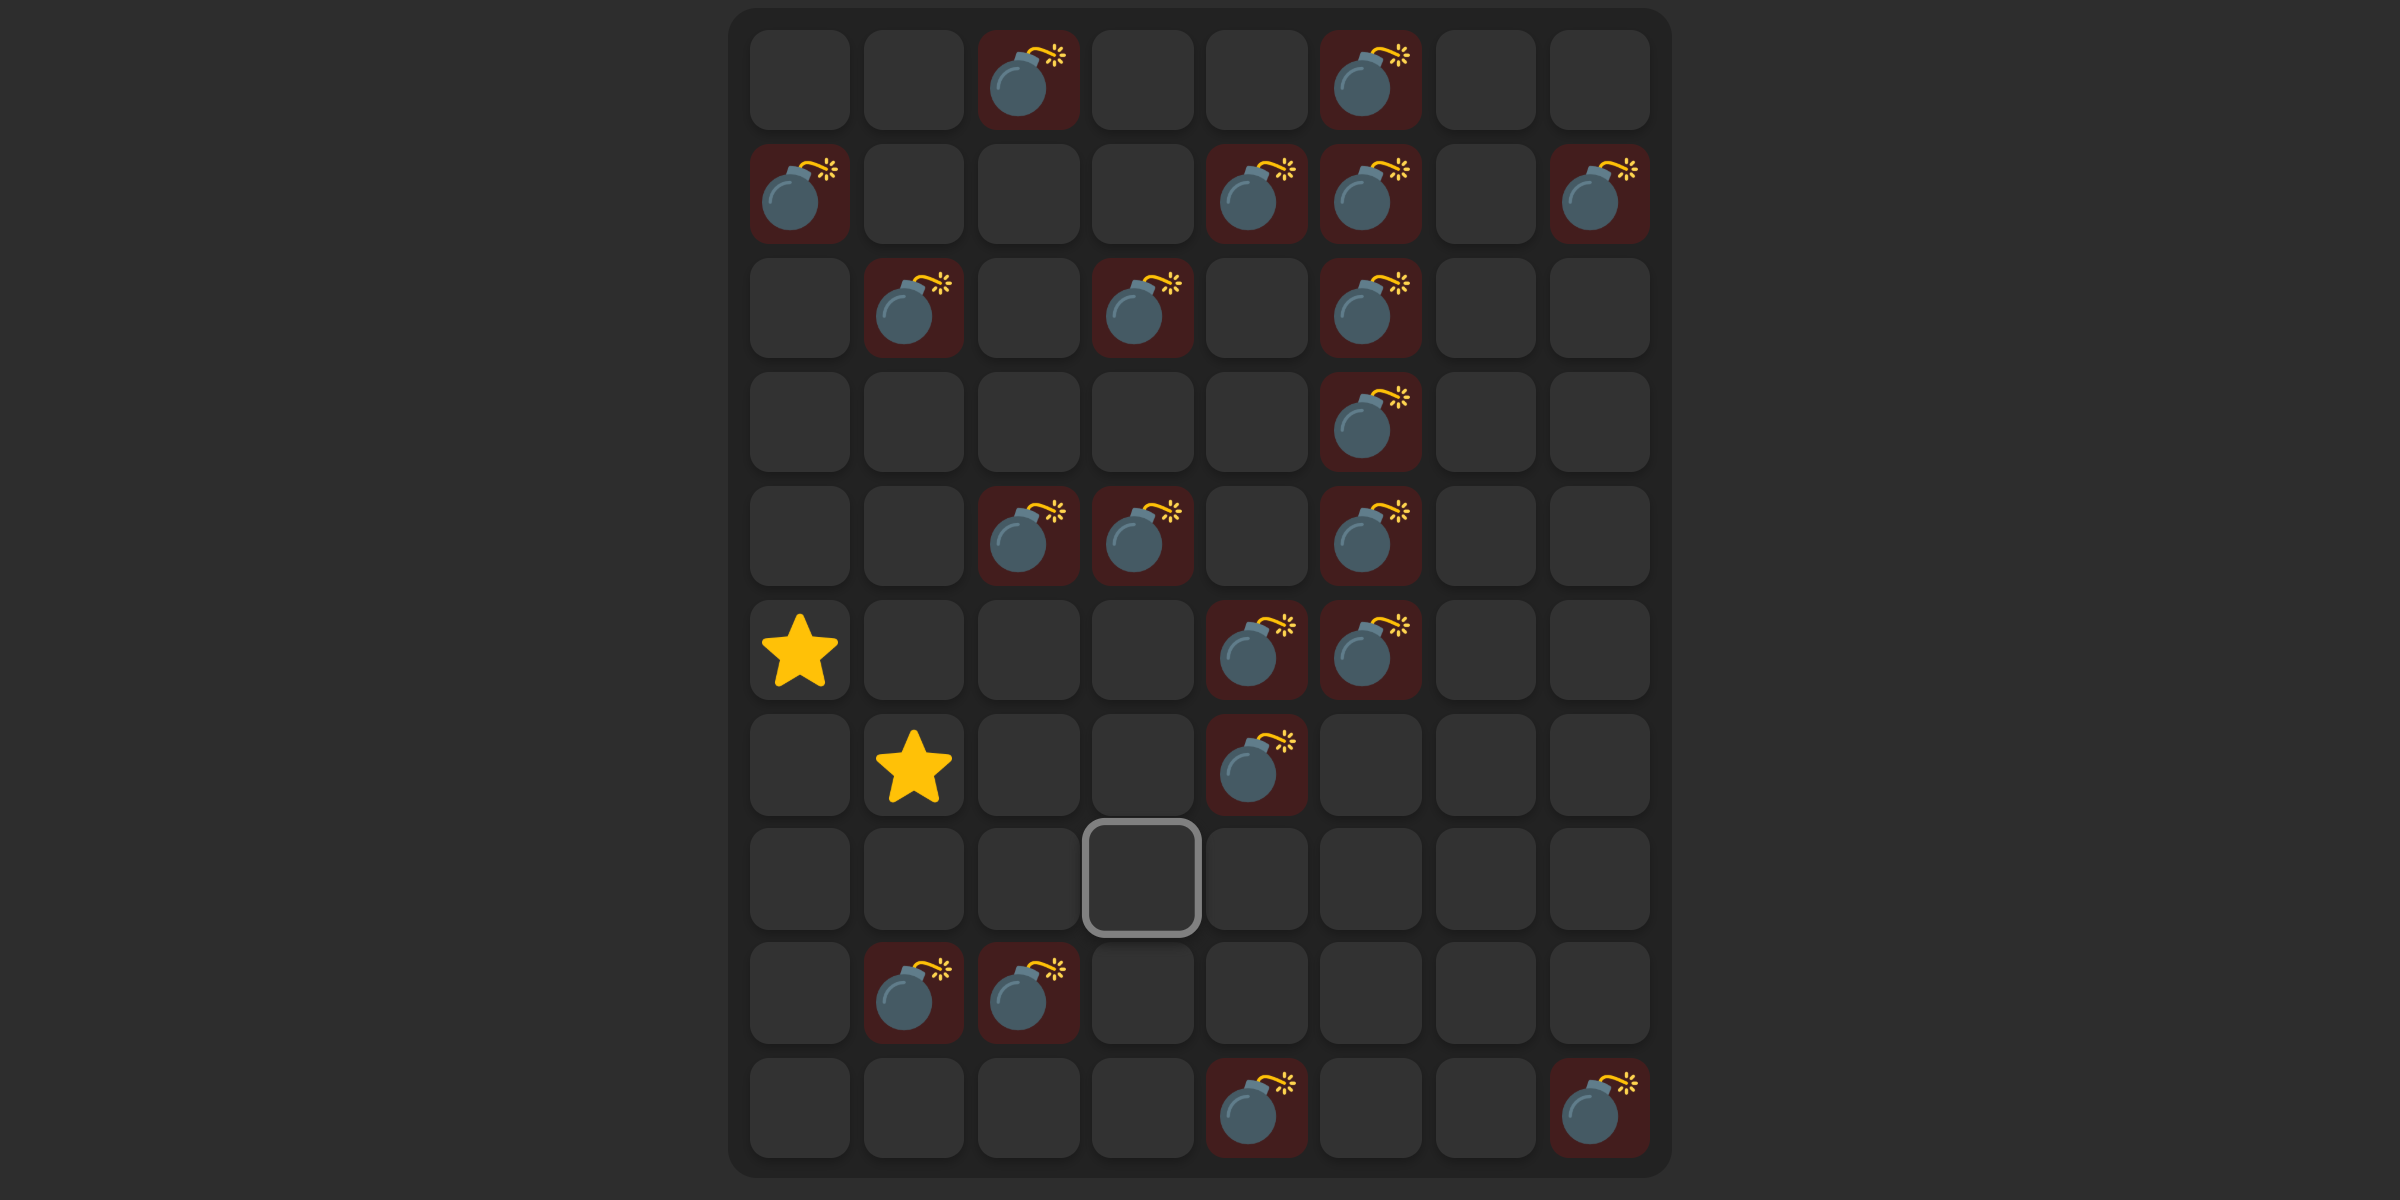
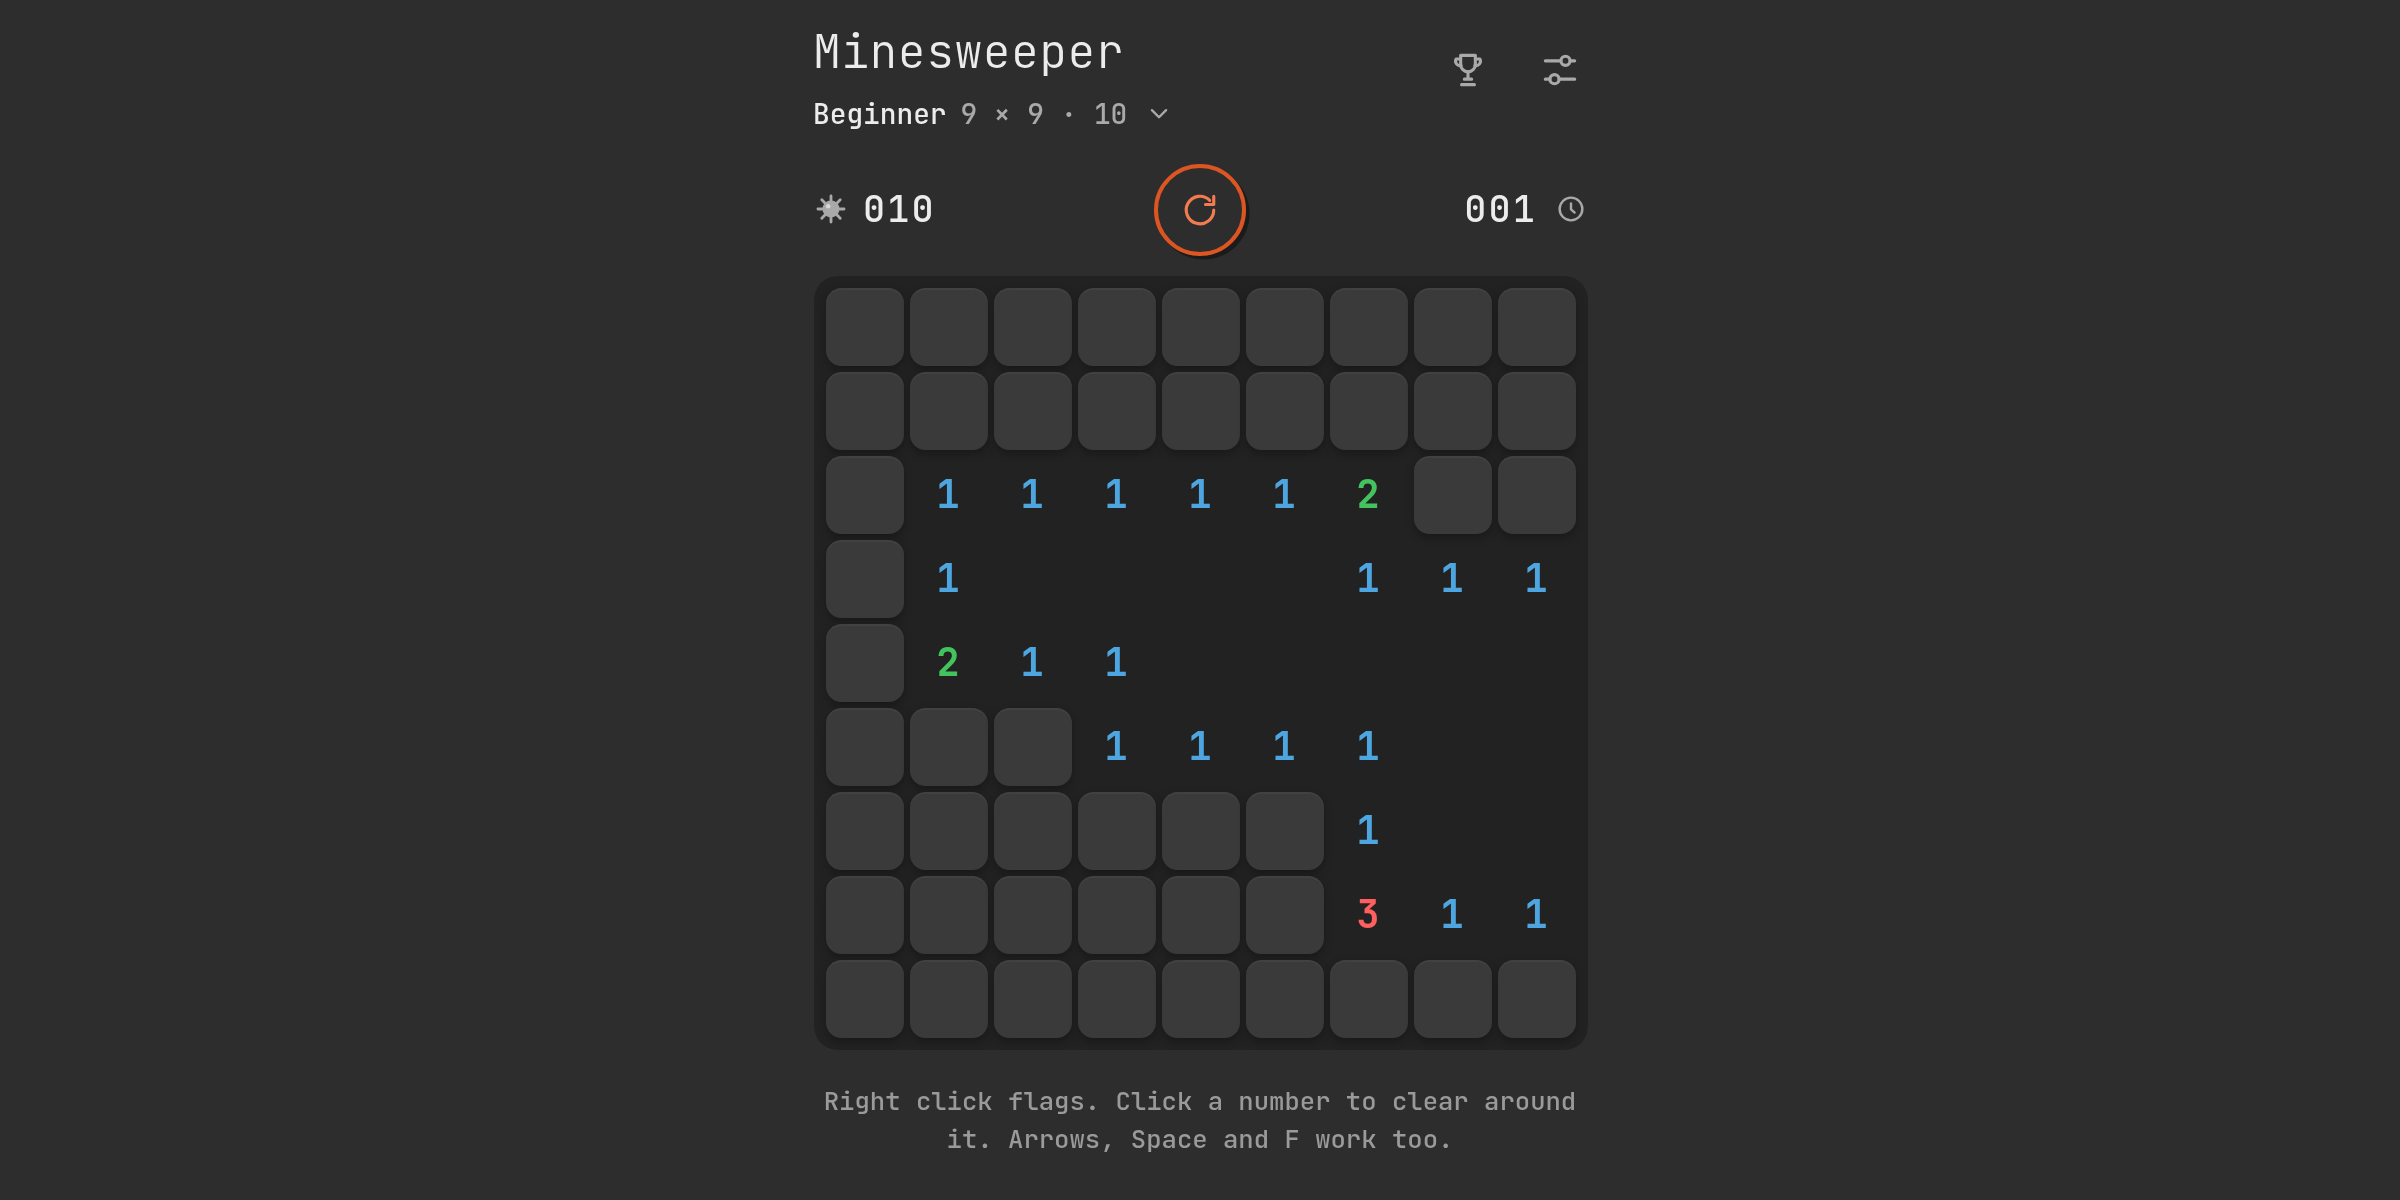
Minesweeper at /minesweeper/: the rebuilt game as a submodule, its card versioned from the pin
minesweeper-js is now a submodule at minesweeper/, so eliasv.com serves it at /minesweeper/ and the
droplet's build picks up new pins with the others. The card links there, takes its version from the
pinned commit instead of the GitHub head, describes the new game, and carries a fresh screenshot shot
from the new GitHub Pages build.

diff --git a/README.md b/README.md
@@ -15,7 +15,7 @@ Personal site and small web tools, hosted on [GitHub Pages](https://eliasvagan.g
 | **Notar** | Browser-based melody composer with staff notation and Web Audio playback | [projects/notar/](https://eliasvagan.github.io/projects/notar/) |
 | **Celestial Alliance 3** | Space-opera RPG in the browser — fly, trade, walk stations and cities | [projects/celestial-alliance-3/](https://eliasvagan.github.io/projects/celestial-alliance-3/) |
 | **AlkoMax** | Search Vinmonopolet and Systembolaget at once — NOK prices, alcohol per krone, a *Grensehandel* calculator | [alkomax/](https://eliasvagan.github.io/alkomax/) |
-| **MineSweeper JS** | Browser-based Minesweeper game | [minesweeper-js](https://eliasvagan.github.io/minesweeper-js/) |
+| **MineSweeper JS** | Minesweeper for phones and desktop — long-press to flag, chording, best times and streaks per difficulty | [minesweeper/](https://eliasvagan.github.io/minesweeper/) |
 
 ## Repository layout
 
@@ -31,6 +31,7 @@ Personal site and small web tools, hosted on [GitHub Pages](https://eliasvagan.g
 │   ├── notar/        # Melody composer (submodule)
 │   └── celestial-alliance-3/  # Built bundle, committed directly
 ├── alkomax/          # AlkoMax frontend, built bundle committed directly (see below)
+├── minesweeper/      # Minesweeper (submodule of eliasvagan/minesweeper-js), served at /minesweeper/
 ├── test/             # Playwright + pytest integration tests
 ├── _config.yml       # Jekyll / GitHub Pages config
 └── IT2/              # Archived IT coursework (HTML, CSS, JavaScript exercises)
